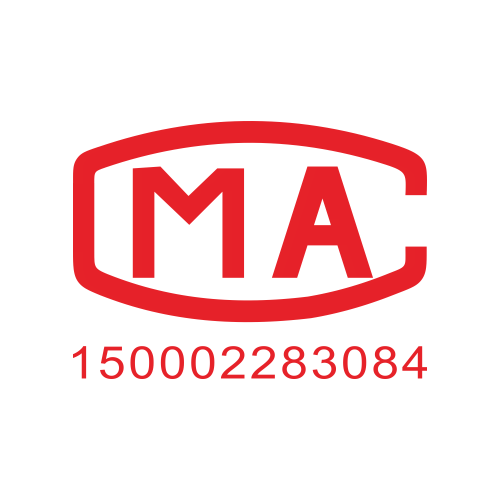
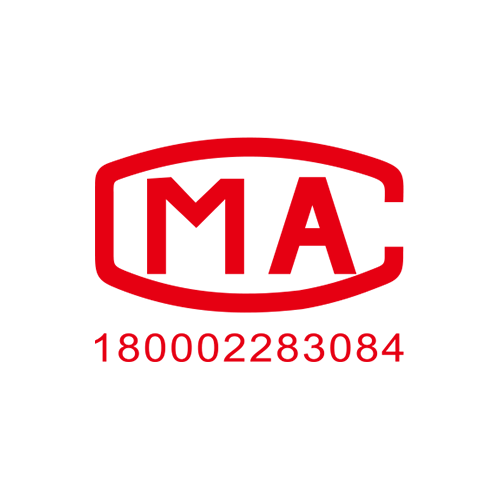
换章

Changed region(s): [[0.12, 0.24, 0.87, 0.78]]

diff --git a/Application/Admin/Controller/TestController.class.php b/Application/Admin/Controller/TestController.class.php
@@ -635,8 +635,11 @@ class TestController extends Controller
                     $tmpSavefile = $baseinfo['dirname'] . '/' . $baseinfo['filename'] . '-mark.' . $baseinfo['extension'];
                     waterMark($imageFiles[0], './Public/static/images/sealB.png', $tmpSavefile, array(1050, 2620));
                     //左上角章
+                    $tmpSavefile1 = $baseinfo['dirname'] . '/' . $baseinfo['filename'] . '-si.' . $baseinfo['extension'];
+                    waterMark($tmpSavefile, './Public/static/images/si.png', $tmpSavefile1, array(750, 46));
                     $tmpSavefile2 = $baseinfo['dirname'] . '/' . $baseinfo['filename'] . '-sign.' . $baseinfo['extension'];
-                    waterMark($tmpSavefile, './Public/static/images/sign.png', $tmpSavefile2, array(350, 60));
+                    waterMark($tmpSavefile1, './Public/static/images/sign.png', $tmpSavefile2, array(350, 60));
+
                     //带mark的pdf
                     @rename($tmpSavefile2, $imageFiles[0]);
                     $imgFiles[] = $tmpSavefile;
@@ -648,9 +651,12 @@ class TestController extends Controller
                     //小中心
                     $tmpSavefile = $baseinfo['dirname'] . '/' . $baseinfo['filename'] . '-mark.' . $baseinfo['extension'];
                     waterMark($imageFiles[0], './Public/static/images/sealB.png', $tmpSavefile, array(750, 2600));
+                    //新加公章
+                    $tmpSavefile1 = $baseinfo['dirname'] . '/' . $baseinfo['filename'] . '-si.' . $baseinfo['extension'];
+                    waterMark($tmpSavefile, './Public/static/images/si.png', $tmpSavefile1, array(750, 46));
                     //第二个公章
                     $tmpSavefile2 = $baseinfo['dirname'] . '/' . $baseinfo['filename'] . '-mark2.' . $baseinfo['extension'];
-                    waterMark($tmpSavefile, './Public/static/images/sealA.png', $tmpSavefile2, array(1350, 2600));
+                    waterMark($tmpSavefile1, './Public/static/images/sealA.png', $tmpSavefile2, array(1350, 2600));
                     //左上角章
                     $tmpSavefile3 = $baseinfo['dirname'] . '/' . $baseinfo['filename'] . '-sign.' . $baseinfo['extension'];
                     waterMark($tmpSavefile2, './Public/static/images/sign.png', $tmpSavefile3, array(350, 60));
@@ -666,8 +672,10 @@ class TestController extends Controller
 
                 //左上角章
                 $tmpSavefile2 = $baseinfo['dirname'] . '/' . $baseinfo['filename'] . '-sign2.' . $baseinfo['extension'];
-                waterMark($tmpSavefile, './Public/static/images/sign.png', $tmpSavefile2, array(350, 0));
-                @rename($tmpSavefile2, $imageFiles[1]);
+                waterMark($tmpSavefile, './Public/static/images/sign.png', $tmpSavefile2, array(350, 35));
+                $tmpSavefile1 = $baseinfo['dirname'] . '/' . $baseinfo['filename'] . '-si.' . $baseinfo['extension'];
+                waterMark($tmpSavefile2, './Public/static/images/si.png', $tmpSavefile1, array(750, 37));
+                @rename($tmpSavefile1, $imageFiles[1]);
 //加水印
                 //再转换成pdf
                 $signPdf = './Public/attached/report/' . $centreno . '-sign.pdf';
@@ -687,6 +695,7 @@ class TestController extends Controller
                 $imgFiles[] = $baseinfo['dirname'] . '/' . $baseinfo['filename'] . '-mark.' . $baseinfo['extension'];
                 $imgFiles[] = $tmpSavefile;
                 $imgFiles[] = $tmpSavefile2;
+                $imgFiles[] = $tmpSavefile1;
             }
             $data['pdf_path'] = $data['path'];
             $data['pdf_sign_path'] = substr($signPdf, 1);
@@ -774,8 +783,10 @@ class TestController extends Controller
                     $tmpSavefile = $baseinfo['dirname'] . '/' . $baseinfo['filename'] . '-mark.' . $baseinfo['extension'];
                     waterMark($imageFiles[0], './Public/static/images/sealB.png', $tmpSavefile, array(1050, 2620));
                     //左上角章
+                    $tmpSavefile1 = $baseinfo['dirname'] . '/' . $baseinfo['filename'] . '-si.' . $baseinfo['extension'];
+                    waterMark($tmpSavefile, './Public/static/images/si.png', $tmpSavefile1, array(750, 46));
                     $tmpSavefile2 = $baseinfo['dirname'] . '/' . $baseinfo['filename'] . '-sign.' . $baseinfo['extension'];
-                    waterMark($tmpSavefile, './Public/static/images/sign.png', $tmpSavefile2, array(350, 60));
+                    waterMark($tmpSavefile1, './Public/static/images/sign.png', $tmpSavefile2, array(350, 60));
                     //带mark的pdf
                     @rename($tmpSavefile2, $imageFiles[0]);
                     $imgFiles[] = $tmpSavefile;
@@ -787,9 +798,12 @@ class TestController extends Controller
                     //小中心
                     $tmpSavefile = $baseinfo['dirname'] . '/' . $baseinfo['filename'] . '-mark.' . $baseinfo['extension'];
                     waterMark($imageFiles[0], './Public/static/images/sealB.png', $tmpSavefile, array(750, 2600));
+                    //新加公章
+                    $tmpSavefile1 = $baseinfo['dirname'] . '/' . $baseinfo['filename'] . '-si.' . $baseinfo['extension'];
+                    waterMark($tmpSavefile, './Public/static/images/si.png', $tmpSavefile1, array(750, 46));
                     //第二个公章
                     $tmpSavefile2 = $baseinfo['dirname'] . '/' . $baseinfo['filename'] . '-mark2.' . $baseinfo['extension'];
-                    waterMark($tmpSavefile, './Public/static/images/sealA.png', $tmpSavefile2, array(1350, 2600));
+                    waterMark($tmpSavefile1, './Public/static/images/sealA.png', $tmpSavefile2, array(1350, 2600));
                     //左上角章
                     $tmpSavefile3 = $baseinfo['dirname'] . '/' . $baseinfo['filename'] . '-sign.' . $baseinfo['extension'];
                     waterMark($tmpSavefile2, './Public/static/images/sign.png', $tmpSavefile3, array(350, 60));
@@ -804,8 +818,10 @@ class TestController extends Controller
                 }
                 //左上角章
                 $tmpSavefile2 = $baseinfo['dirname'] . '/' . $baseinfo['filename'] . '-sign2.' . $baseinfo['extension'];
-                waterMark($tmpSavefile, './Public/static/images/sign.png', $tmpSavefile2, array(350, 0));
-                @rename($tmpSavefile2, $imageFiles[1]);
+                waterMark($tmpSavefile, './Public/static/images/sign.png', $tmpSavefile2, array(350, 35));
+                $tmpSavefile1 = $baseinfo['dirname'] . '/' . $baseinfo['filename'] . '-si.' . $baseinfo['extension'];
+                waterMark($tmpSavefile2, './Public/static/images/si.png', $tmpSavefile1, array(750, 37));
+                @rename($tmpSavefile1, $imageFiles[1]);
 //加水印
                 //再转换成pdf
                 $signPdf = './Public/attached/report_temp/' . $centreno . '-sign.pdf';
@@ -824,6 +840,7 @@ class TestController extends Controller
                 }
                 $imgFiles[] = $tmpSavefile;
                 $imgFiles[] = $tmpSavefile2;
+                $imgFiles[] = $tmpSavefile1;
             }
             $data['pdf_path'] = $data['path'];
             $data['pdf_sign_path'] = substr($signPdf, 1);
